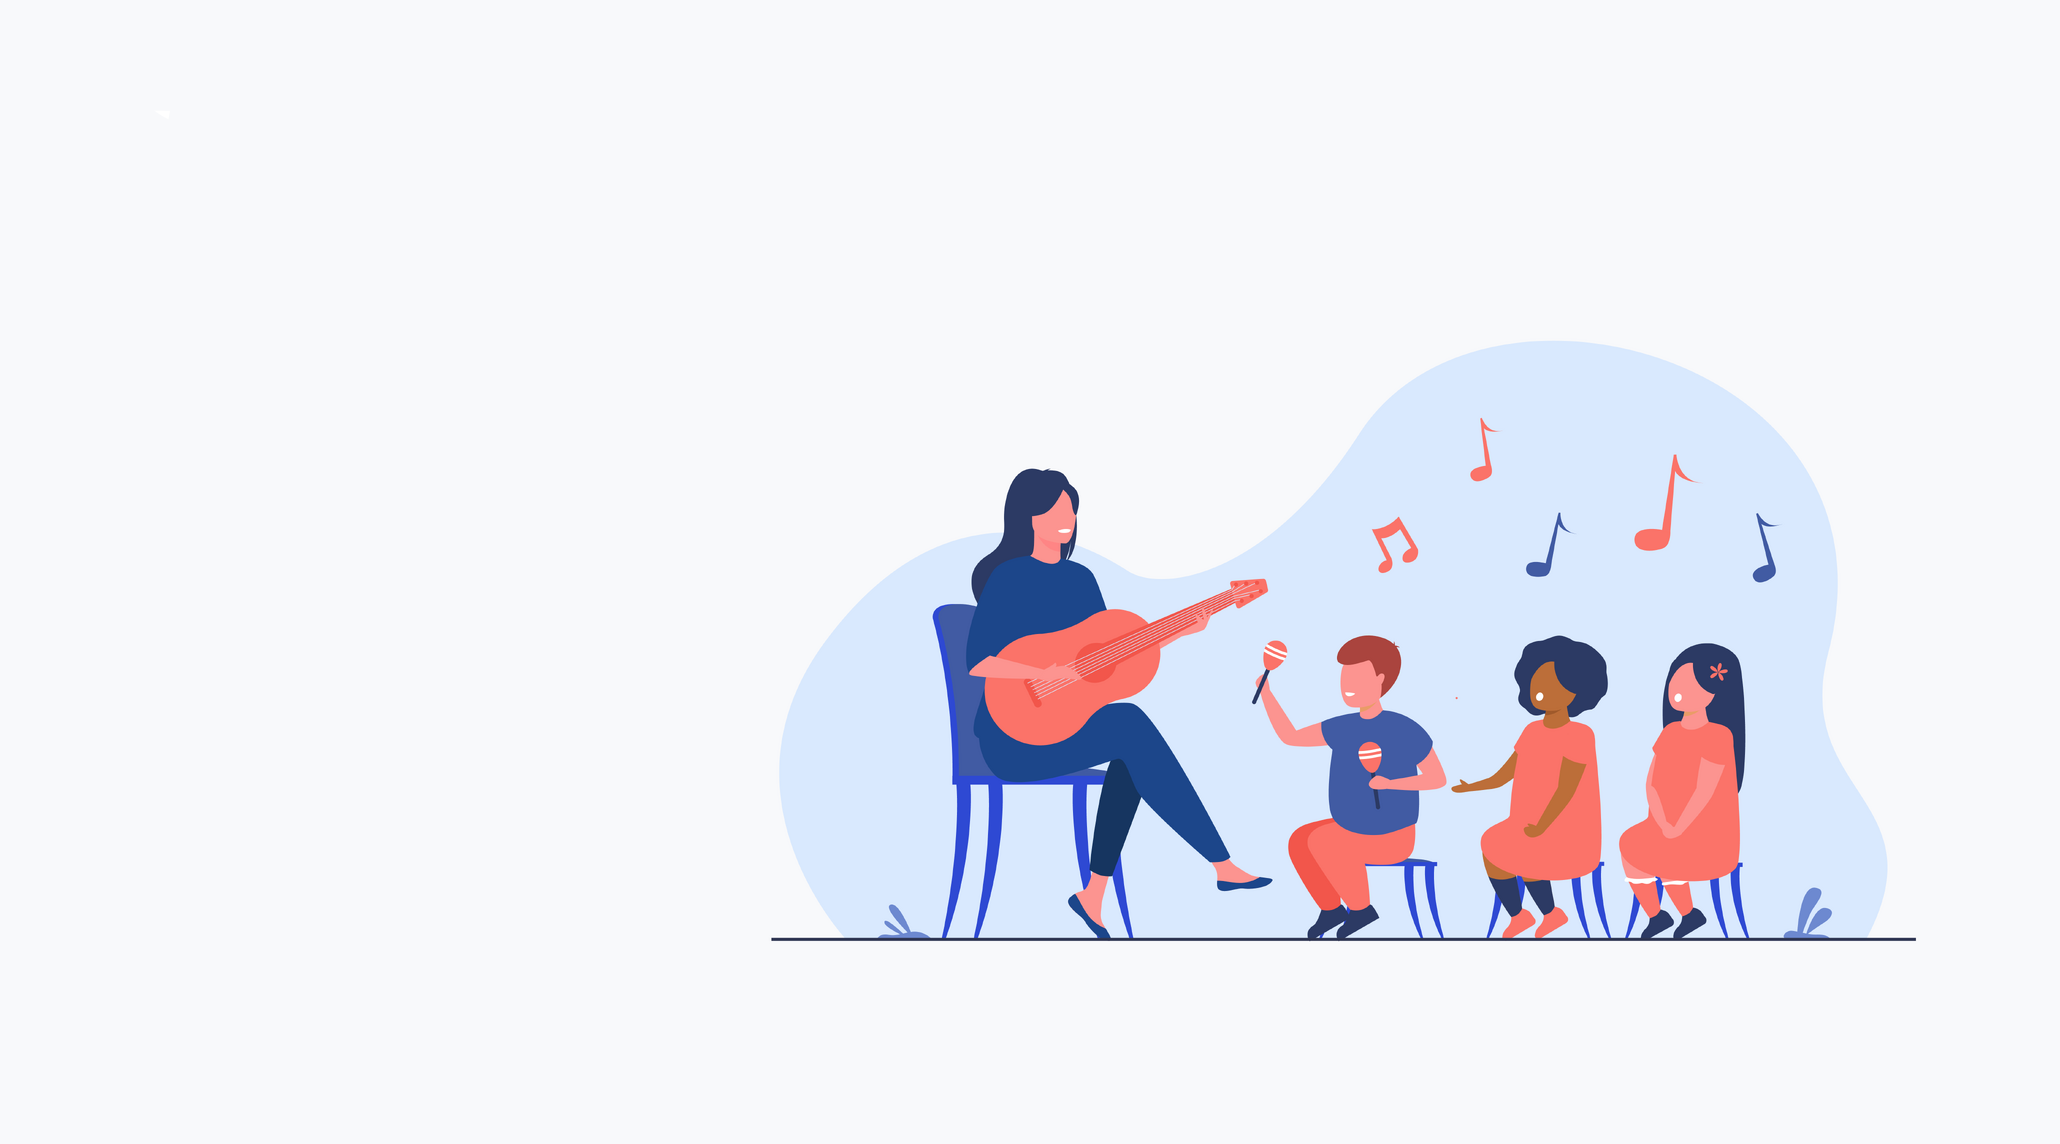
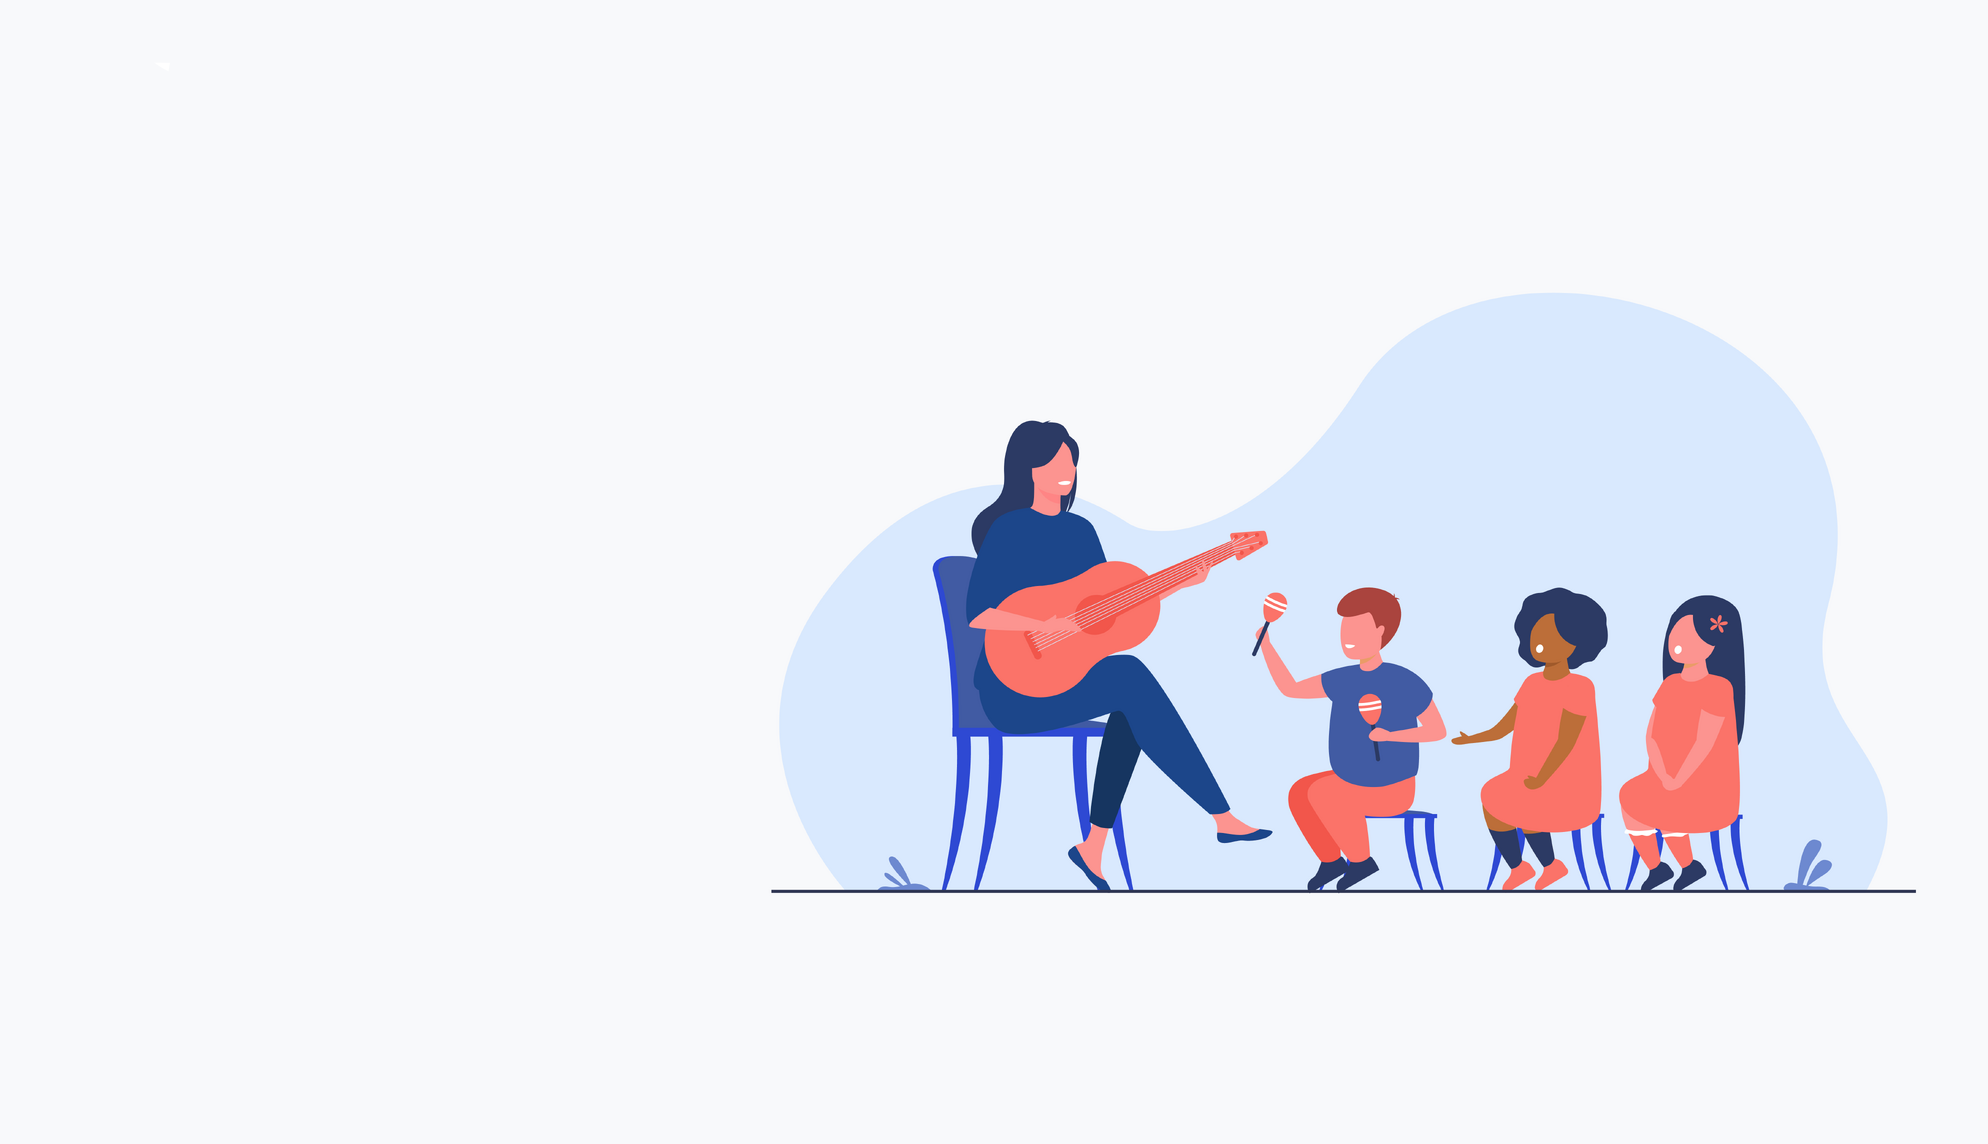
animated musical notes

diff --git a/app/Components/Hero.tsx b/app/Components/Hero.tsx
@@ -3,6 +3,8 @@
 import { useState } from "react";
 import { FaCirclePlay } from "react-icons/fa6";
 import VideoModal from "./VideoModal";
+import { IoArrowForward } from "react-icons/io5";
+import { IoMenuOutline } from "react-icons/io5";
 
 export default function Hero() {
    const [isOpen, setOpen] = useState(false);
@@ -16,26 +18,32 @@ export default function Hero() {
    return (
       <section
          id="hero"
-         className="relative bg-[#F8F9FB] "
+         className="relative  md:px-20 bg-[#F8F9FB] "
       >
          <img
             src="/herobg.png"
             className="z-0 absolute md:block hidden right-0 h-screen"
          />
-
+         <div className="muzieknootjes absolute md:bottom-96 bottom-80 z-50 right-6 md:right-32">
+            <div className="noot-1 text-red-500">&#9835; &#9833;</div>
+            <div className="noot-2 text-orange-400">&#9833;</div>
+            <div className="noot-3  text-blue-700">&#9839; &#9834;</div>
+            <div className="noot-4 text-blue-500">&#9835; &#9833;</div>
+            <div className="noot-5  text-orange-500">&#9834;</div>
+         </div>
          <div className="relative flex h-screen  z-30 w-full items-center justify-start">
-            <div className="md:w-1/2 z-30 md:pl-20 md:pt-0 pt-10 px-6 md:pr-10">
-               <h1 className="   md:pr-16 font-bold text-2xl   text-textprimary md:text-6xl">
+            <div className="md:w-1/2 z-30 md:pl-20 md:pt-10 pt-10 px-6 md:pr-10">
+               <h1 className="   md:pr-16 font-bold text-2xl   text-red-400 md:text-6xl">
                   BOOST YOUR
-                  <span className="text-[#3295DC]"> BABY&apos;s</span> BRAIN &
-                  <span className="text-[#3295DC]"> LEARNING POTENTIAL</span>
+                  <span className="text-PrimaryBlue"> BABY&apos;s</span> BRAIN &
+                  <span className="text-PrimaryBlue"> LEARNING POTENTIAL</span>
                </h1>
 
                <img
                   src="/herobgMobile.png"
                   className="z-0 pt-6 top-0 md:hidden  "
                />
-               <h1 className="my-6 md:my-10  text-sm  md:text-lg  md:pr-8 ">
+               <h1 className="my-6 md:my-12 text-gray-700 text-sm  md:text-lg  md:pr-8 ">
                   We flash the image of the notes at the exact moment they are
                   being played in almost 300 amazing music videos. Each
                   composition is dedicated to one of the basic 36 notes, their
@@ -45,19 +53,47 @@ export default function Hero() {
                   take 12-18 months of regular use.
                </h1>
 
-               <div className="flex justify-start">
-                  <div
+               <div className="md:flex justify-start">
+                  {/* <div
                      onClick={openModal}
-                     className="flex items-center justify-between rounded-md text-sm md:text-xl pl-2 py-2 pr-2 bg-[#3295DC] text-white cursor-pointer"
+                     className="flex items-center justify-between rounded text-sm md:text-xl pl-2 py-2 pr-2 bg-red-500 text-white cursor-pointer"
                   >
                      <a
                         href="#contactme"
                         className="  no-underline"
                      >
-                        Watch The Whole Process
+                        Learn How This Works
                      </a>
-                     <div className="p-1 text-sm md:text-2xl ml-3 text-[#3295DC] rounded-md bg-white">
+                     <div className="p-1 text-sm md:text-2xl ml-3 text-red-500 rounded-md bg-white">
                         <FaCirclePlay />
+                     </div>
+                  </div> */}
+
+                  <div
+                     onClick={openModal}
+                     className="flex items-center justify-between rounded-3xl text-sm md:text-lg px-3 py-2  bg-PrimaryBlue hover:bg-blue-600 text-white cursor-pointer group duration-700"
+                  >
+                     <a
+                        href="#contactme"
+                        className="  no-underline"
+                     >
+                        Watch How This Works
+                     </a>
+                     <div className="p-1 text-sm md:text-xl ml-3 text-PrimaryBlue duration-700 group-hover:text-blue-600 rounded-full bg-white">
+                        <FaCirclePlay />
+                     </div>
+                  </div>
+
+                  <div className="flex items-center md:ml-8 mt-4 md:mt-0 justify-between rounded-3xl text-sm md:text-lg  px-3 py-2 border-2 border-PrimaryBlue hover:border-blue-600 text-PrimaryBlue hover:text-blue-600 cursor-pointer group duration-700">
+                     <a
+                        href="#contactme"
+                        className="  no-underline"
+                     >
+                        Learn More
+                     </a>
+
+                     <div className="p-1 text-sm md:text-xl ml-3 text-white rounded-full bg-PrimaryBlue group-hover:bg-blue-600 duration-700">
+                        <IoArrowForward />
                      </div>
                   </div>
                </div>

diff --git a/app/Components/NavBar.tsx b/app/Components/NavBar.tsx
@@ -3,44 +3,44 @@ import { IoMenuOutline } from "react-icons/io5";
 
 export default function NavBar() {
    return (
-      <div className="top-0 z-40 fixed   backdrop-filter backdrop-blur-3xl shadow md:shadow-none bg-white/60 w-full transition duration-700">
+      <div className="top-0 z-40 fixed md:px-20  backdrop-filter backdrop-blur-3xl shadow md:shadow-none bg-white/60 w-full transition duration-700">
          <div className="flex justify-between items-center w-full  z-50  px-4 md:px-20 py-5">
             <div className="md:flex   cursor-pointer  items-center ">
                {/* <a href="/">
             <img src={logo} alt="Logo" className="md:w-72 w-32" />
           </a> */}
-               <h1 className="text-2xl md:text-4xl  font-bold text-[#3295DC]">
+               <h1 className="text-xl md:text-3xl  font-bold text-PrimaryBlue">
                   ABSOLUTEPITCH
                </h1>
             </div>
 
             <div className="md:flex hidden items-center space-x-[72px] text-black text-xs md:text-lg">
                <a
-                  className="  hover:text-[#3295DC] hover:underline transition duration-300 cursor-pointer"
+                  className="  hover:text-PrimaryBlue hover:underline transition duration-300 cursor-pointer"
                   href="/"
                >
                   Home
                </a>
                <a
-                  className="  hover:text-[#3295DC] hover:underline transition duration-300 cursor-pointer"
+                  className="  hover:text-PrimaryBlue hover:underline transition duration-300 cursor-pointer"
                   href="/"
                >
                   Why
                </a>
                <a
-                  className="  hover:text-[#3295DC] hover:underline transition duration-300 cursor-pointer"
+                  className="  hover:text-PrimaryBlue hover:underline transition duration-300 cursor-pointer"
                   href="/"
                >
                   Method
                </a>
                <a
-                  className="  hover:text-[#3295DC] hover:underline transition duration-300 cursor-pointer"
+                  className="  hover:text-PrimaryBlue hover:underline transition duration-300 cursor-pointer"
                   href="/"
                >
                   Contact
                </a>
 
-               <div className="flex items-center justify-between rounded-md   pl-4 py-2 pr-2 bg-[#3295DC] text-white cursor-pointer">
+               {/* <div className="flex items-center justify-between rounded-md   pl-4 py-2 pr-2 bg-PrimaryBlue text-white cursor-pointer">
                   <a
                      href="/"
                      className=" pr-4  no-underline"
@@ -50,9 +50,9 @@ export default function NavBar() {
                   <div className="p-2 text-black rounded-md bg-white">
                      <IoArrowForward />
                   </div>
-               </div>
+               </div> */}
             </div>
-            <div className="block md:hidden text-[#3295DC] text-2xl">
+            <div className="block md:hidden text-PrimaryBlue text-2xl">
                <IoMenuOutline />
             </div>
          </div>

diff --git a/app/globals.css b/app/globals.css
@@ -2,3 +2,138 @@
 @tailwind components;
 @tailwind utilities;
 
+.muzieknootjes {
+   margin: auto;
+   width: 25%;
+   min-width: 300px;
+   height: 200px;
+   border: 0px solid #000;
+}
+
+.noot-1,
+.noot-2,
+.noot-3,
+.noot-4,
+.noot-5 {
+   position: absolute;
+   animation: notes 3s infinite linear;
+   font-size: 35px;
+   opacity: 0;
+}
+
+.noot-1 {
+   top: 60px;
+   left: 0;
+   animation-delay: 0.2s;
+}
+
+.noot-2 {
+   top: 30px;
+   left: 30%;
+   animation-delay: 1.2s;
+}
+
+.noot-3 {
+   top: 90px;
+   left: 40%;
+   animation-delay: 2s;
+}
+.noot-4 {
+   top: 30px;
+   left: 75%;
+   animation-delay: 0.7s;
+}
+
+.noot-5 {
+   top: 40px;
+   left: 65%;
+   animation-delay: 1.5s;
+}
+
+@keyframes notes {
+   0% {
+      transform: scale(1) translate(0, 0);
+      opacity: 0;
+   }
+   50% {
+      opacity: 1;
+      transform: scale(1.5) translate(50%, -50%);
+   }
+   80% {
+      opacity: 0.5;
+      transform: scale(1.5) translate(90%, -100%);
+   }
+   100% {
+      transform: scale(1.3) translate(100%, -90%);
+      opacity: 0;
+   }
+}
+
+
+
+
+
+
+
+@media only screen and (max-width: 600px) {
+   
+
+   
+.muzieknootjes {
+   margin: auto;
+   width: 10%;
+   min-width: 170px;
+   height: 220px;
+   border: 0px solid #000;
+}
+
+
+.noot-1,
+.noot-2,
+.noot-3,
+.noot-4,
+.noot-5 {
+   position: absolute;
+   animation: notes 3s infinite linear;
+   font-size: 15px;
+   opacity: 0;
+}
+
+
+
+
+
+
+
+.noot-1 {
+   top: 60px;
+   left: 0;
+   animation-delay: 0.2s;
+}
+
+.noot-2 {
+   top: 30px;
+   left: 35%;
+   animation-delay: 2s;
+}
+
+.noot-3 {
+   top: 90px;
+   left: 40%;
+   animation-delay: 2s;
+}
+.noot-4 {
+   top: 30px;
+   left: 75%;
+   animation-delay: 0.7s;
+}
+
+.noot-5 {
+   top: 40px;
+   left: 65%;
+   animation-delay: 1.5s;
+}
+
+
+
+ }

diff --git a/app/page.tsx b/app/page.tsx
@@ -3,7 +3,7 @@ import NavBar from "./Components/NavBar";
 
 export default function Home() {
    return (
-      <main>
+      <main className="">
          <NavBar />
          <Hero />
          <div className="h-screen w-full flex items-center justify-center text-center text-3xl md:text-5xl">

diff --git a/tailwind.config.ts b/tailwind.config.ts
@@ -13,6 +13,9 @@ const config: Config = {
             "gradient-conic":
                "conic-gradient(from 180deg at 50% 50%, var(--tw-gradient-stops))",
          },
+         colors:{
+            PrimaryBlue:"#3295DC",
+         }
       },
    },
    plugins: [],
